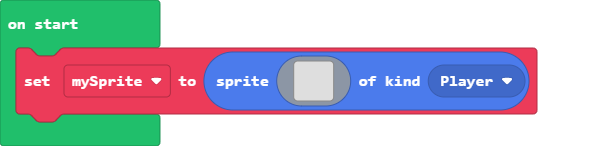
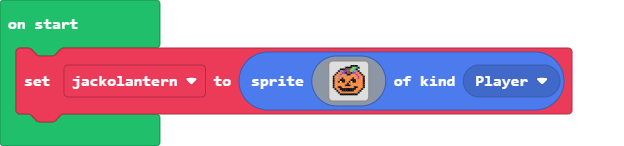
Update main.blocks, main.ts

diff --git a/main.ts b/main.ts
@@ -1,18 +1,19 @@
-let mySprite = sprites.create(img`
-    . . . . . . . . . . . . . . . . 
-    . . . . . . . . . . . . . . . . 
-    . . . . . . . . . . . . . . . . 
-    . . . . . . . . . . . . . . . . 
-    . . . . . . . . . . . . . . . . 
-    . . . . . . . . . . . . . . . . 
-    . . . . . . . . . . . . . . . . 
-    . . . . . . . . . . . . . . . . 
-    . . . . . . . . . . . . . . . . 
-    . . . . . . . . . . . . . . . . 
-    . . . . . . . . . . . . . . . . 
-    . . . . . . . . . . . . . . . . 
-    . . . . . . . . . . . . . . . . 
-    . . . . . . . . . . . . . . . . 
-    . . . . . . . . . . . . . . . . 
-    . . . . . . . . . . . . . . . . 
+let jackolantern = sprites.create(img`
+    ..........ffff....
+    .......ffff776f...
+    ....fffcee776f....
+    ...fbbacee76bbf...
+    ..f44aafeefaa44f..
+    .f44a44bff444a44f.
+    f44b4444444444a44f
+    f44b4f44444f44a44f
+    f444fff444fff4444f
+    f44f5ff44f5ff4444f
+    f4444444f44444444f
+    f444444fff4444444f
+    f44ff4444444ff444f
+    .f44fffffffff444f.
+    ..f44fffffff444f..
+    ...f4444444444f...
+    ....ffffffffff....
     `, SpriteKind.Player)
